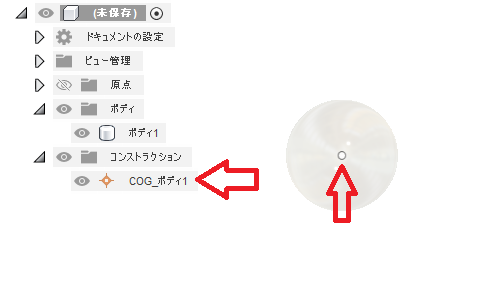
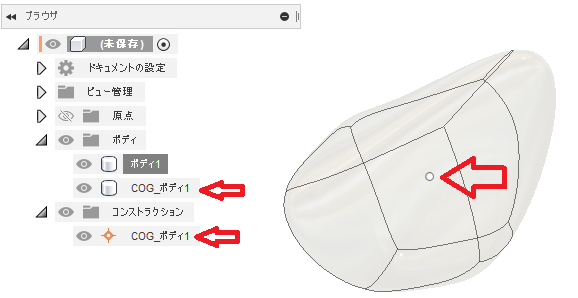
Add COG_Sphere option

diff --git a/GOKOTAI/commands/COG/entry.py b/GOKOTAI/commands/COG/entry.py
@@ -6,6 +6,14 @@ from ... import config
 app = adsk.core.Application.get()
 ui = app.userInterface
 
+# *************************
+# 重心点の球体作成のデフォルトをチェック入れたい場合は、False->Trueに変更
+_sphereSw_Default: bool = False
+
+# 重心点の球体の直径-単位はCmです
+SPHERE_SIZE = 0.01
+# *************************
+
 
 # TODO *** Specify the command identity information. ***
 CMD_ID = f'{config.COMPANY_NAME}_{config.ADDIN_NAME}_cog'
@@ -37,6 +45,8 @@ ICON_FOLDER = os.path.join(os.path.dirname(os.path.abspath(__file__)), 'resource
 local_handlers = []
 
 _bodyIpt: adsk.core.SelectionCommandInput = None
+_sphereSw: adsk.core.BoolValueCommandInput = None
+
 
 # Executed when add-in is run.
 def start():
@@ -105,6 +115,15 @@ def command_created(args: adsk.core.CommandCreatedEventArgs):
         adsk.core.SelectionCommandInput.SolidBodies
     )
 
+    global _sphereSw, _sphereSw_Default
+    _sphereSw = inputs.addBoolValueInput(
+        'sphereSwId',
+        '重心点に球体作成',
+        True,
+        '',
+        _sphereSw_Default
+    )
+
     futil.add_handler(args.command.execute, command_execute, local_handlers=local_handlers)
     futil.add_handler(args.command.executePreview, command_preview, local_handlers=local_handlers)
     futil.add_handler(args.command.destroy, command_destroy, local_handlers=local_handlers)
@@ -115,7 +134,12 @@ def command_execute(args: adsk.core.CommandEventArgs):
     global _bodyIpt
     body: adsk.fusion.BRepBody = _bodyIpt.selection(0).entity
 
-    initCOG(body)
+    global _sphereSw, SPHERE_SIZE
+    radius = -1
+    if _sphereSw.value:
+        radius = SPHERE_SIZE * 0.5
+
+    initCOG(body, radius)
 
 
 def command_preview(args: adsk.core.CommandEventArgs):
@@ -136,7 +160,17 @@ def command_destroy(args: adsk.core.CommandEventArgs):
 
 
 def initCOG(
-    body: adsk.fusion.BRepBody):
+    body: adsk.fusion.BRepBody,
+    radius: float = -1.0):
+
+    cog: adsk.core.Point3D = body.physicalProperties.centerOfMass
+    sphere: adsk.fusion.BRepBody = None
+    if radius > 0:
+        tmpMgr: adsk.fusion.TemporaryBRepManager = adsk.fusion.TemporaryBRepManager.get()
+        sphere = tmpMgr.createSphere(
+            cog,
+            radius
+        )
 
     comp: adsk.fusion.Component = body.parentComponent
     constPnts: adsk.fusion.ConstructionPoints = comp.constructionPoints
@@ -151,18 +185,27 @@ def initCOG(
     if des.designType == adsk.fusion.DesignTypes.ParametricDesignType:
         baseFeat = comp.features.baseFeatures.add()
 
+    bodies: adsk.fusion.BRepBodies = comp.bRepBodies
+    cog_sphere: adsk.fusion.BRepBody = None
+    cog_name = f'COG_{body.name}'
     if baseFeat:
         baseFeat.startEdit()
         try:
             constPnt: adsk.fusion.ConstructionPoint = constPnts.add(pntIpt)
-            constPnt.name = f'COG_{body.name}'
+            constPnt.name = cog_name
+            if sphere:
+                cog_sphere = bodies.add(sphere, baseFeat)
+                cog_sphere.name = cog_name
         except:
             pass
         finally:
             baseFeat.finishEdit()
     else:
         constPnt: adsk.fusion.ConstructionPoint = constPnts.add(pntIpt)
-        constPnt.name = f'COG_{body.name}'
+        constPnt.name = cog_name
+        if sphere:
+            cog_sphere = bodies.add(sphere)
+            cog_sphere.name = cog_name
 
 
 def initCOG_CG(

diff --git a/GOKOTAI/commands/COG/README.md b/GOKOTAI/commands/COG/README.md
@@ -18,6 +18,7 @@
   - サーフェスのボディ、メッシュボディは対象外です。
   - プレビュー中はボディの不透明度を変化させますが、一時的な処理です。
 
+- 重心点に球体作成：チェックを入れる事で球体も作成します。
 
 ---
 
@@ -29,7 +30,11 @@
 
 + ボディと同じコンポーネント内に作成されます。
 
-+ ”COG_<ボディ名>” の名称で作成されます。
++ ”COG_<ボディ名>” の名称で構築点作成されます。
+
++ "重心点に球体作成" にチェックを入れた場合は、球体も作成します。
+
+※COGはcenter of gravity(重心点)の略です。
 
 ---
 

diff --git a/CHANGELOG.md b/CHANGELOG.md
@@ -1,5 +1,8 @@
 # Change of Fusion360 GOKOTAI
 
+## 0.0.18
++ 図面化対応の為、重心点に球体作成オプション追加("ボディの重心点")
+
 ## 0.0.17
 + "ボディの重心点"コマンド追加
 
